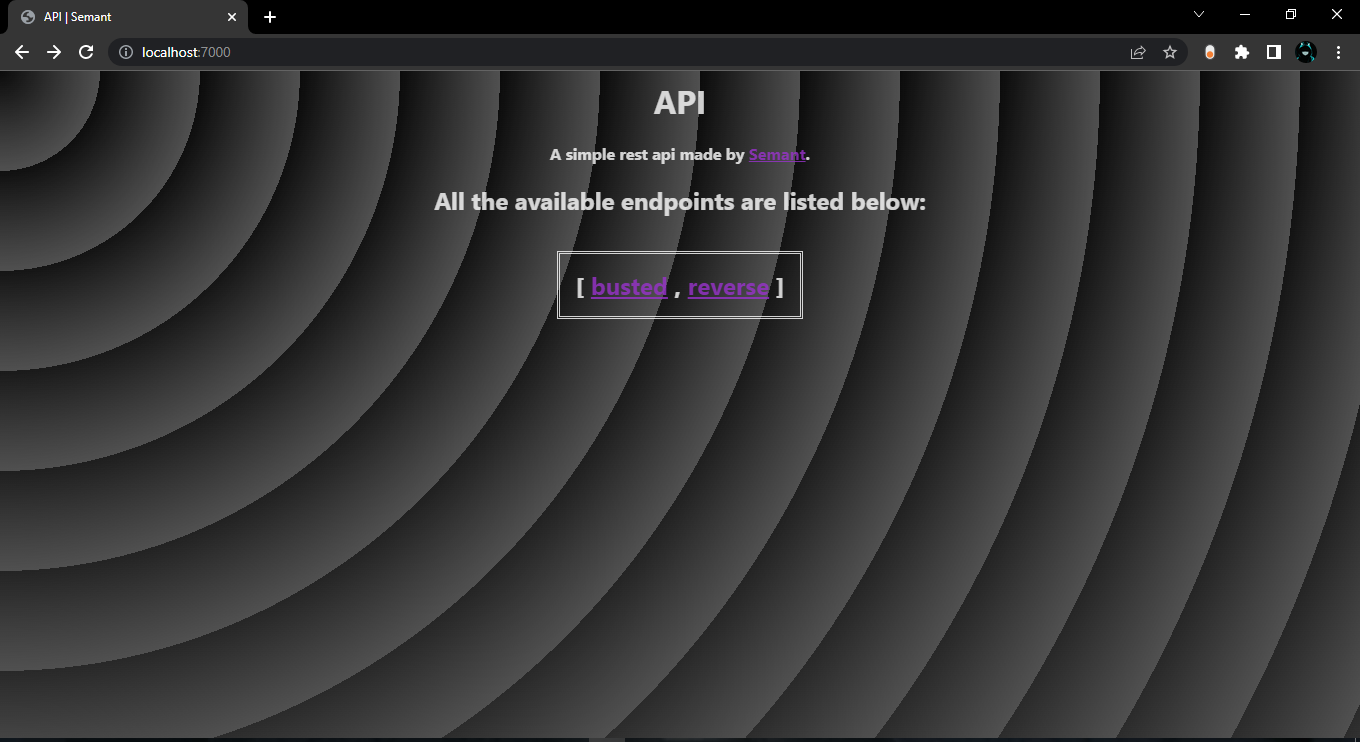
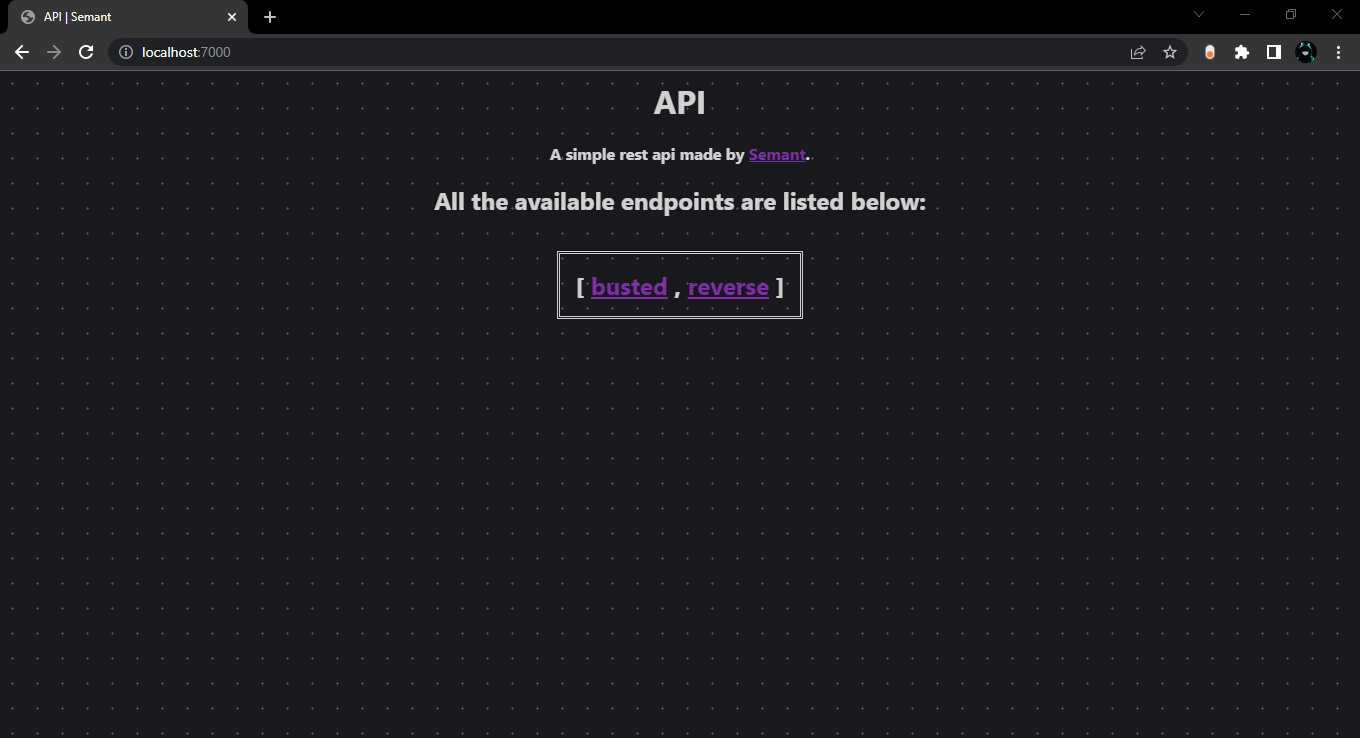
updated preview

diff --git a/public/style.css b/public/style.css
@@ -6,12 +6,9 @@ body {
   font-weight: bold;
   background-color: #000000;
   opacity: 0.8;
-  background-image: repeating-radial-gradient(
-      circle at 0 0,
-      transparent 0,
-      #505050 100px
-    ),
-    repeating-linear-gradient(#20202055, #2c2c2c);
+  background: radial-gradient(#4c4f5a 6%, transparent 6%), #18191c;
+  background-position: 0 0, 25px 25px;
+  background-size: 25px 25px;
 }
 a:link {
   color: rgb(168, 44, 65);

diff --git a/README.md b/README.md
@@ -23,3 +23,7 @@
 **Image route:**
 
 <img alt="Busted preview" src="./assets/examples/busted.png">
+
+**Text route:**
+
+<img alt="Reverse preview" src="./assets/examples/reverse.png">
